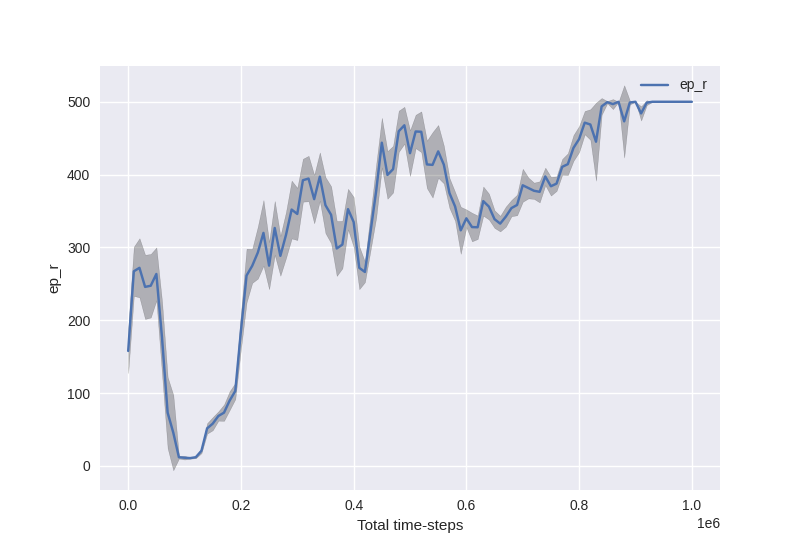
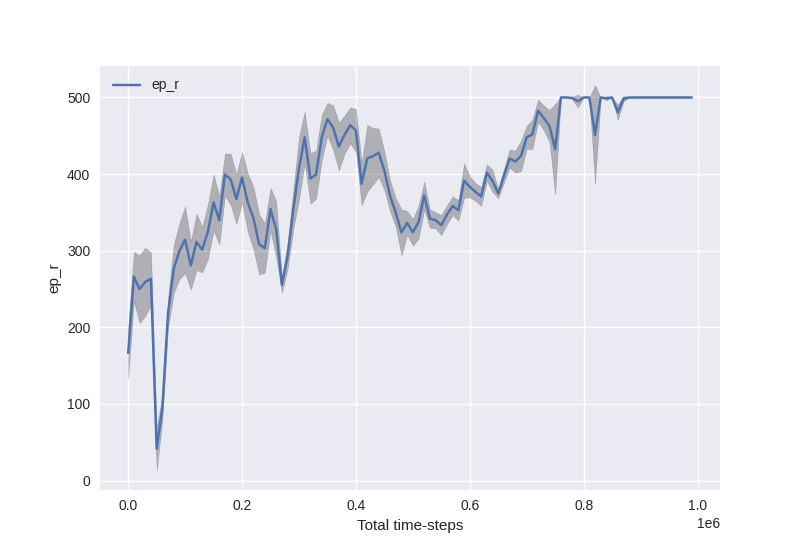
Track episode statistics every step

diff --git a/gamerl/dqn/jax/examples/cartpole.py b/gamerl/dqn/jax/examples/cartpole.py
@@ -83,7 +83,6 @@ if __name__ == "__main__":
 	lr = 5e-4
 	buffer_capacity = 50000
 	discount = 0.8
-	n_updates = 100
 	batch_size = 128
 	n_steps = int(1e6)
 	prefill_steps = 50000
@@ -91,8 +90,12 @@ if __name__ == "__main__":
 
 	# Define the EnvironmentStepFn.
 	rng, rng_ = jax.random.split(rng)
-	env = gym.wrappers.vector.RecordEpisodeStatistics(
-		gym.make_vec("CartPole-v1", num_envs=n_envs, vectorization_mode="sync"),
+	env = gym.make_vec(
+		id="CartPole-v1",
+		num_envs=n_envs,
+		vectorization_mode=gym.VectorizeMode.SYNC,
+		max_episode_steps=steps_limit,
+		wrappers=[gym.wrappers.RecordEpisodeStatistics],
 	)
 	env_fn = EnvironmentStepFn(rng_, env)
 
@@ -114,7 +117,7 @@ if __name__ == "__main__":
 	# Define the DQN Trainer.
 	dqn_learner = DQNLearner(
 		q_fn, optim_fn, env_fn, buffer,
-		discount=discount, batch_size=batch_size, #n_updates=n_updates,
+		discount=discount, batch_size=batch_size,
 		eps=eps,
 	)
 
@@ -147,7 +150,6 @@ if __name__ == "__main__":
 	# Generate plots.
 	plt.style.use("seaborn-v0_8") # ggplot
 	for k in dqn_learner.train_log.keys():
-		if k == "hyperparams": continue # skip this
 
 		fig, ax = plt.subplots()
 
@@ -155,10 +157,6 @@ if __name__ == "__main__":
 		avg_every = total // 100
 		xs = np.arange(total)[::avg_every]
 		ys = dqn_learner.train_log[k]
-
-		if k in ["ep_r", "ep_l"]:
-			total_steps = dqn_learner.train_log["hyperparams"][0]["n_steps"]
-			xs = np.linspace(0, total_steps, len(xs))
 
 		# xs has `ceil(total / avg_every)` elements.
 		# We may need to pad the ys.

diff --git a/gamerl/dqn/jax/dqn.py b/gamerl/dqn/jax/dqn.py
@@ -9,6 +9,7 @@ from typing import Protocol
 import jax
 import jax.numpy as jnp
 from jax.typing import ArrayLike
+import numpy as np
 from tqdm import tqdm
 
 
@@ -148,12 +149,6 @@ class DQNLearner:
 		if self.update_freq < 0: self.update_freq = n_envs
 		if self.n_updates < 0: 	 self.n_updates = self.update_freq
 
-		self.train_log["hyperparams"].append({
-			"n_steps": n_steps,
-			"n_envs": n_envs,
-			"n_updates": self.n_updates,
-		})
-
 		tgt_params = deepcopy(params)   # tgt network params for double q-learning
 		pbar = tqdm(total=n_steps)      # manual progress bar
 		steps = 0                       # total number of steps performed
@@ -260,10 +255,17 @@ def step(
 	# transitions = (o, acts, r, o_next, t)
 	transitions = (o, acts, r, o_next, (t | tr))
 
-	info = {
-		"ep_r": [float(infos["episode"]["r"][k]) for k in range(B) if (t | tr)[k]],
-		"ep_l": [float(infos["episode"]["l"][k]) for k in range(B) if (t | tr)[k]],
-	}
+	# Read the episode statistics. At every step store the episode return
+	# episode length. Store ``nan`` if the episode is not finished.
+	done = np.asarray(t | tr, dtype=bool)
+	if "episode" not in infos.keys() or "r" not in infos["episode"].keys():
+		infos["episode"] = {
+			"r": np.zeros_like(done, dtype=float),
+			"l": np.zeros_like(done, dtype=float),
+		}
+	ep_r = np.where(done, np.asarray(infos["episode"]["r"]), np.nan)
+	ep_l = np.where(done, np.asarray(infos["episode"]["l"]), np.nan)
+	info = {"ep_r": ep_r, "ep_l": ep_l}
 
 	return transitions, info
 

diff --git a/gamerl/dqn/jax/examples/lunar_lander.py b/gamerl/dqn/jax/examples/lunar_lander.py
@@ -146,7 +146,6 @@ if __name__ == "__main__":
 	dqn_learner = DQNLearner(
 		q_fn, optim_fn, env_fn, buffer,
 		discount=discount, batch_size=batch_size,
-		# n_updates=n_updates,
 		eps=eps,
 	)
 
@@ -179,7 +178,6 @@ if __name__ == "__main__":
 	# Generate plots.
 	plt.style.use("seaborn-v0_8") # ggplot
 	for k in dqn_learner.train_log.keys():
-		if k == "hyperparams": continue # skip this
 
 		fig, ax = plt.subplots()
 
@@ -187,10 +185,6 @@ if __name__ == "__main__":
 		avg_every = total // 100
 		xs = np.arange(total)[::avg_every]
 		ys = dqn_learner.train_log[k]
-
-		if k in ["ep_r", "ep_l"]:
-			total_steps = dqn_learner.train_log["hyperparams"][0]["n_steps"]
-			xs = np.linspace(0, total_steps, len(xs))
 
 		# xs has `ceil(total / avg_every)` elements.
 		# We may need to pad the ys.
